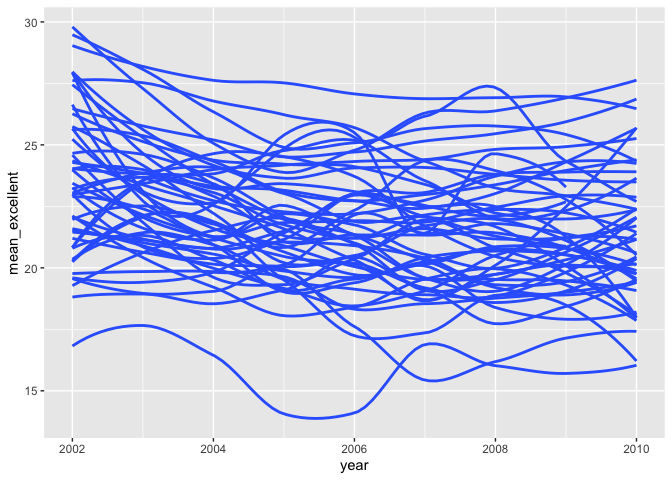
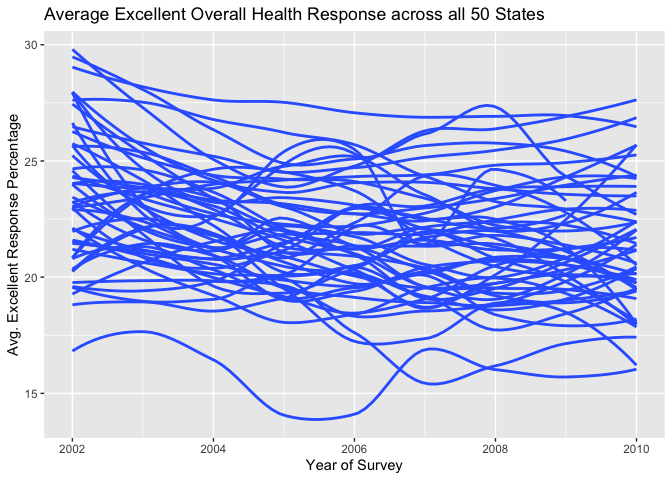
Aesthetic Label Edits to Problem 2 Spaghetti Plot, and Creating the Distribution of Survey Health Responses for NY 2006, 2010 faceted boxplot.

diff --git a/p8015_hw3_agd2159.md b/p8015_hw3_agd2159.md
@@ -357,7 +357,7 @@ compare_excellent = brfss_clean |>
   select(year, state, county, response, data_value) |> 
   filter(response == "Excellent") |> 
   group_by(year, state) |> 
-  summarize(mean_excellent = mean(data_value)) 
+  summarize(mean_excellent = mean(data_value))
 ```
 
     ## `summarise()` has grouped output by 'year'. You can override using the
@@ -383,10 +383,20 @@ compare_excellent
     ## 10  2002 FL              25.7
     ## # ℹ 433 more rows
 
+When arranging by the mean of excellent responses, the lower outlier is
+the state of Virginia, which only had a excellent health response of
+**11.5 in the year 2005.** West Virginia is the most consistent low band
+in the Spaghetti Plot.
+
 ``` r
 #Creating Spaghetti Plot
 compare_excellent |> 
-  ggplot(aes(x = year, y = mean_excellent, group = state)) + geom_smooth(se = FALSE)
+  ggplot(aes(x = year, y = mean_excellent, group = state)) + geom_smooth(se = FALSE, alpha = .2) +
+  labs(
+    title = "Average Excellent Overall Health Response across all 50 States",
+    x = "Year of Survey",
+    y = "Avg. Excellent Response Percentage"
+  )
 ```
 
     ## `geom_smooth()` using method = 'loess' and formula = 'y ~ x'
@@ -406,5 +416,24 @@ will help).
 *Q: Make a two-panel plot showing, for the years 2006, and 2010,
 distribution of data_value for responses (“Poor” to “Excellent”) among
 locations in NY State.*
+
+``` r
+#Creating NY State Dataframe
+ny_response = brfss_clean |> 
+  select(year, state, county, response, data_value) |> 
+  filter(state == "NY" & year %in% c(2006, 2010))
+
+
+ny_response |> 
+  ggplot(aes(x= response, y = data_value)) + geom_boxplot() + 
+  labs(
+    title = "Distribution of Health Responses across NY State, 2006 vs. 2010",
+    x = "Overall Health Response",
+    y = "Percentage"
+  ) +
+  facet_grid(. ~ year)
+```
+
+![](p8015_hw3_agd2159_files/figure-gfm/unnamed-chunk-11-1.png)<!-- -->
 
 # Problem 3: NHANES Accelerometer Data Analysis
